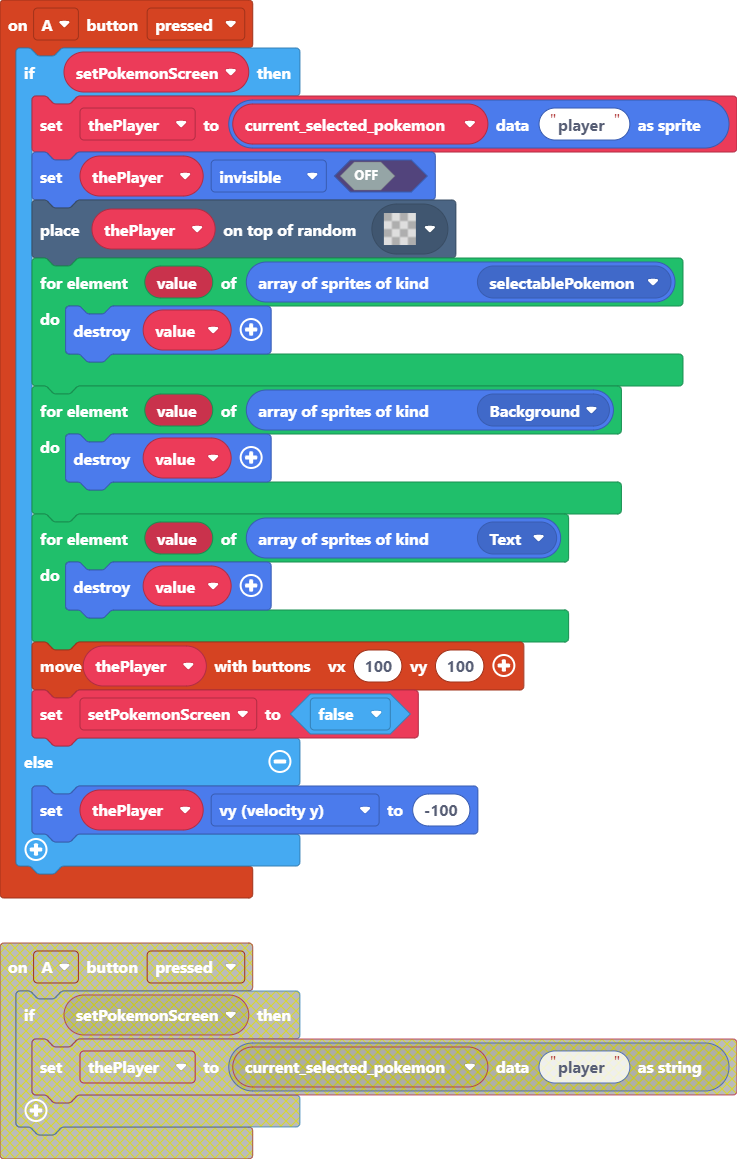
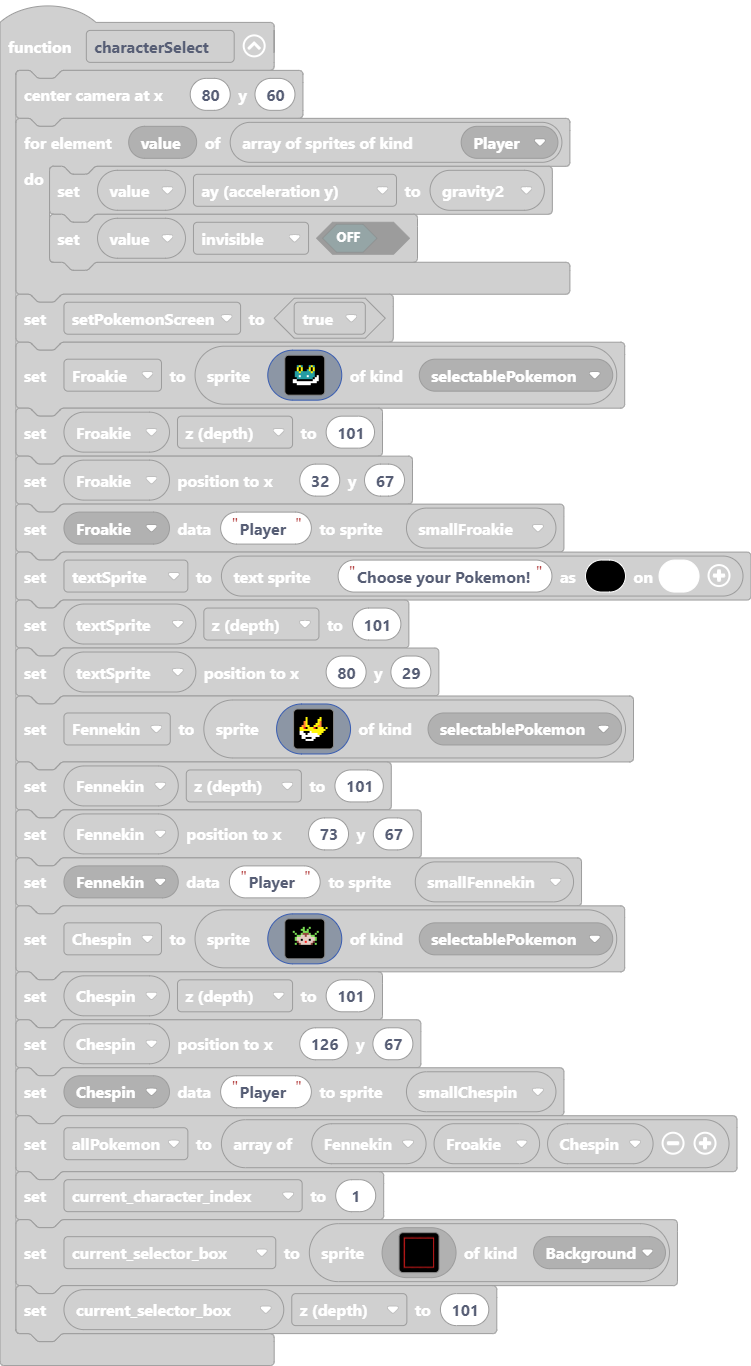
Update pxt.json, main.blocks, main.ts, tilemap.g.jres, tilemap.g.ts

diff --git a/main.ts b/main.ts
@@ -43,18 +43,18 @@ function characterSelect () {
     Froakie = sprites.create(img`
         . . . . . . . . . . . . . . . . 
         . . . . . . . . . . . . . . . . 
-        . . . . . . . . . . . . . . . . 
-        . . . . . . . . . . . . . . . . 
-        . . . . . . . . . . . . . . . . 
-        . . . . . . . . . . . . . . . . 
-        . . . . . . . . . . . . . . . . 
-        . . . . . . . . . . . . . . . . 
-        . . . . . . . . . . . . . . . . 
-        . . . . . . . . . . . . . . . . 
-        . . . . . . . . . . . . . . . . 
-        . . . . . . . . . . . . . . . . 
-        . . . . . . . . . . . . . . . . 
-        . . . . . . . . . . . . . . . . 
+        . . . . f f f . . . f f f . . . 
+        . . . f 6 5 6 f . f 6 5 6 f . . 
+        . . . f 5 f 5 f . f 5 f 5 f . . 
+        . . . f 5 f 5 f f 6 5 f 5 f . . 
+        . . f 6 6 5 6 6 6 6 6 5 6 f . . 
+        . . f 6 6 6 6 6 6 6 6 6 6 f f . 
+        . . f 6 6 1 6 6 6 1 6 6 6 f 1 f 
+        . . f f 6 6 6 6 6 6 6 6 f 1 1 f 
+        . f 1 1 f f f f f f f f 1 1 1 f 
+        . f 1 1 1 1 1 1 1 1 1 1 1 1 f . 
+        . . f f 1 1 1 1 1 1 1 f f f . . 
+        . . . . f f f f f f f . . . . . 
         . . . . . . . . . . . . . . . . 
         . . . . . . . . . . . . . . . . 
         `, SpriteKind.selectablePokemon)
@@ -66,20 +66,20 @@ function characterSelect () {
     textSprite.setPosition(80, 29)
     Fennekin = sprites.create(img`
         . . . . . . . . . . . . . . . . 
-        . . . . . . . . . . . . . . . . 
-        . . . . . . . . . . . . . . . . 
-        . . . . . . . . . . . . . . . . 
-        . . . . . . . . . . . . . . . . 
-        . . . . . . . . . . . . . . . . 
-        . . . . . . . . . . . . . . . . 
-        . . . . . . . . . . . . . . . . 
-        . . . . . . . . . . . . . . . . 
-        . . . . . . . . . . . . . . . . 
-        . . . . . . . . . . . . . . . . 
-        . . . . . . . . . . . . . . . . 
-        . . . . . . . . . . . . . . . . 
-        . . . . . . . . . . . . . . . . 
-        . . . . . . . . . . . . . . . . 
+        . . . . f . . . . . . f . . . . 
+        . . . f 5 f . . . . f 5 f . . . 
+        . . f f 5 f . . . f 5 5 f . . . 
+        . . f 4 5 f . . . f 5 4 f . . . 
+        f . f 4 5 f . . f 5 5 4 f . . . 
+        f f 4 4 5 5 f f 5 5 4 4 f . f f 
+        f 5 5 2 f 5 5 5 2 f 5 5 5 f 5 f 
+        f 5 5 5 5 5 5 5 5 5 5 5 5 5 f . 
+        f 1 1 f f f 1 5 5 5 5 5 5 f . . 
+        f 1 1 1 f 1 1 1 1 1 5 5 f f . . 
+        . f 1 1 1 1 1 1 1 1 1 f f . . . 
+        . f 1 1 f f f 1 1 f f f . . . . 
+        . . f f 1 1 1 1 f . . . . . . . 
+        . . . . f f f f . . . . . . . . 
         . . . . . . . . . . . . . . . . 
         `, SpriteKind.selectablePokemon)
     Fennekin.z = 101
@@ -87,17 +87,17 @@ function characterSelect () {
     sprites.setDataSprite(Fennekin, "Player", smallFennekin)
     Chespin = sprites.create(img`
         . . . . . . . . . . . . . . . . 
-        . . . . . . . . . . . . . . . . 
-        . . . . . . . . . . . . . . . . 
-        . . . . . . . . . . . . . . . . 
-        . . . . . . . . . . . . . . . . 
-        . . . . . . . . . . . . . . . . 
-        . . . . . . . . . . . . . . . . 
-        . . . . . . . . . . . . . . . . 
-        . . . . . . . . . . . . . . . . 
-        . . . . . . . . . . . . . . . . 
-        . . . . . . . . . . . . . . . . 
-        . . . . . . . . . . . . . . . . 
+        . . . . . . f f . . f . . . . . 
+        . . . . . . f 7 f f 7 f . . . . 
+        . f f . . f 7 7 f 7 f f . . f f 
+        . f 7 f . . f 7 7 7 f . . f 7 f 
+        . . f 7 f f 7 e e e 7 f f 7 f . 
+        . . . f 7 7 d d e d d 7 7 f . . 
+        . . f 7 d d d d d d d d d 7 f . 
+        . . f 7 d d f d d d f d d 7 f . 
+        . . . f e d d d 2 d d d e f . . 
+        . . f 7 f e d d d d d e f 7 f . 
+        . . . f . f f f f f f f . f . . 
         . . . . . . . . . . . . . . . . 
         . . . . . . . . . . . . . . . . 
         . . . . . . . . . . . . . . . . 

diff --git a/tilemap.g.ts b/tilemap.g.ts
@@ -1,0 +1,14 @@
+// Auto-generated code. Do not edit.
+namespace myTiles {
+    //% fixedInstance jres blockIdentity=images._tile
+    export const transparency16 = image.ofBuffer(hex``);
+
+    helpers._registerFactory("tile", function(name: string) {
+        switch(helpers.stringTrim(name)) {
+            case "transparency16":return transparency16;
+        }
+        return null;
+    })
+
+}
+// Auto-generated code. Do not edit.
